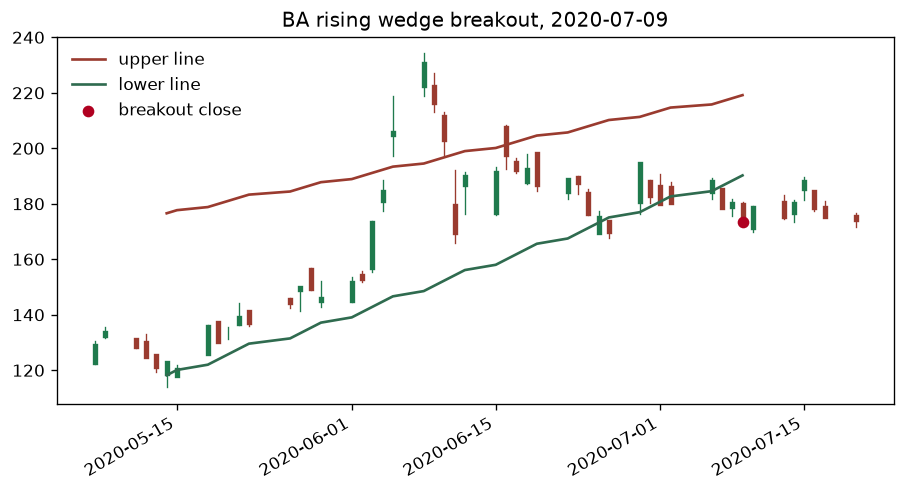
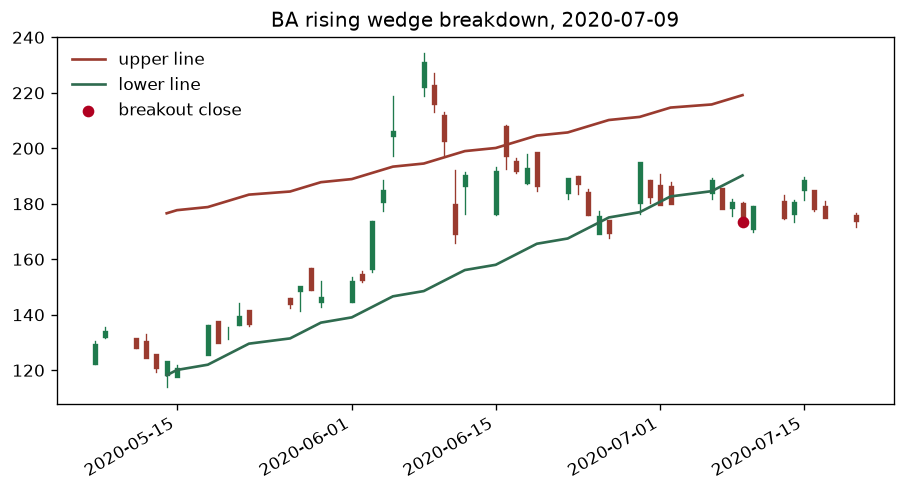
Label wedge chart examples as breakouts or breakdowns.
The two saved wedges are both short signals, so the title now says breakdown instead of calling every print a breakout.

Changed region(s): [[0.2785, 0.0, 0.7735, 0.061]]

diff --git a/src/webull_bot/research_patterns.py b/src/webull_bot/research_patterns.py
@@ -475,15 +475,18 @@ def _plot_wedges(plt, bars, book, out_dirs, limit: int) -> list[Path]:
             height = float(row["upper"] - row["lower"])
             if span < 20 or price <= 0 or height <= 0:
                 continue
-            candidates.append((height / price, symbol, loc, str(row["kind"])))
+            side = "breakdown" if bool(signals["short_next_open"].iloc[loc]) else "breakout"
+            candidates.append((height / price, symbol, loc, str(row["kind"]), side))
     candidates.sort(key=lambda item: item[0], reverse=True)
     saved = []
     used = set()
-    for _height, symbol, loc, kind in candidates:
+    for _height, symbol, loc, kind, side in candidates:
         if symbol in used or len(saved) >= limit:
             continue
         used.add(symbol)
-        saved.append(_draw_wedge(plt, bars[symbol], symbol, loc, cache[symbol].iloc[loc], kind, out_dirs))
+        saved.append(
+            _draw_wedge(plt, bars[symbol], symbol, loc, cache[symbol].iloc[loc], kind, side, out_dirs)
+        )
     return saved
 
 
@@ -512,7 +515,7 @@ def _draw_trendline(plt, frame, symbol, loc, anchors, out_dirs) -> Path:
     return _save_fig(plt, fig, out_dirs, f"trendline_{symbol}.png")
 
 
-def _draw_wedge(plt, frame, symbol, loc, row, kind, out_dirs) -> Path:
+def _draw_wedge(plt, frame, symbol, loc, row, kind, side, out_dirs) -> Path:
     start = int(row["start"])
     pad_left = max(0, start - 5)
     pad_right = min(len(frame), loc + 8)
@@ -527,7 +530,7 @@ def _draw_wedge(plt, frame, symbol, loc, row, kind, out_dirs) -> Path:
     ax.plot(xs, lower, color="#2f6b4f", linewidth=1.6, label="lower line")
     ax.scatter([frame.index[loc]], [frame["close"].iloc[loc]], color="#b00020", zorder=4, label="breakout close")
     when = pd.Timestamp(frame.index[loc]).date()
-    ax.set_title(f"{symbol} {kind} wedge breakout, {when}")
+    ax.set_title(f"{symbol} {kind} wedge {side}, {when}")
     ax.legend(frameon=False, loc="upper left")
     fig.autofmt_xdate()
     return _save_fig(plt, fig, out_dirs, f"wedge_{symbol}.png")
